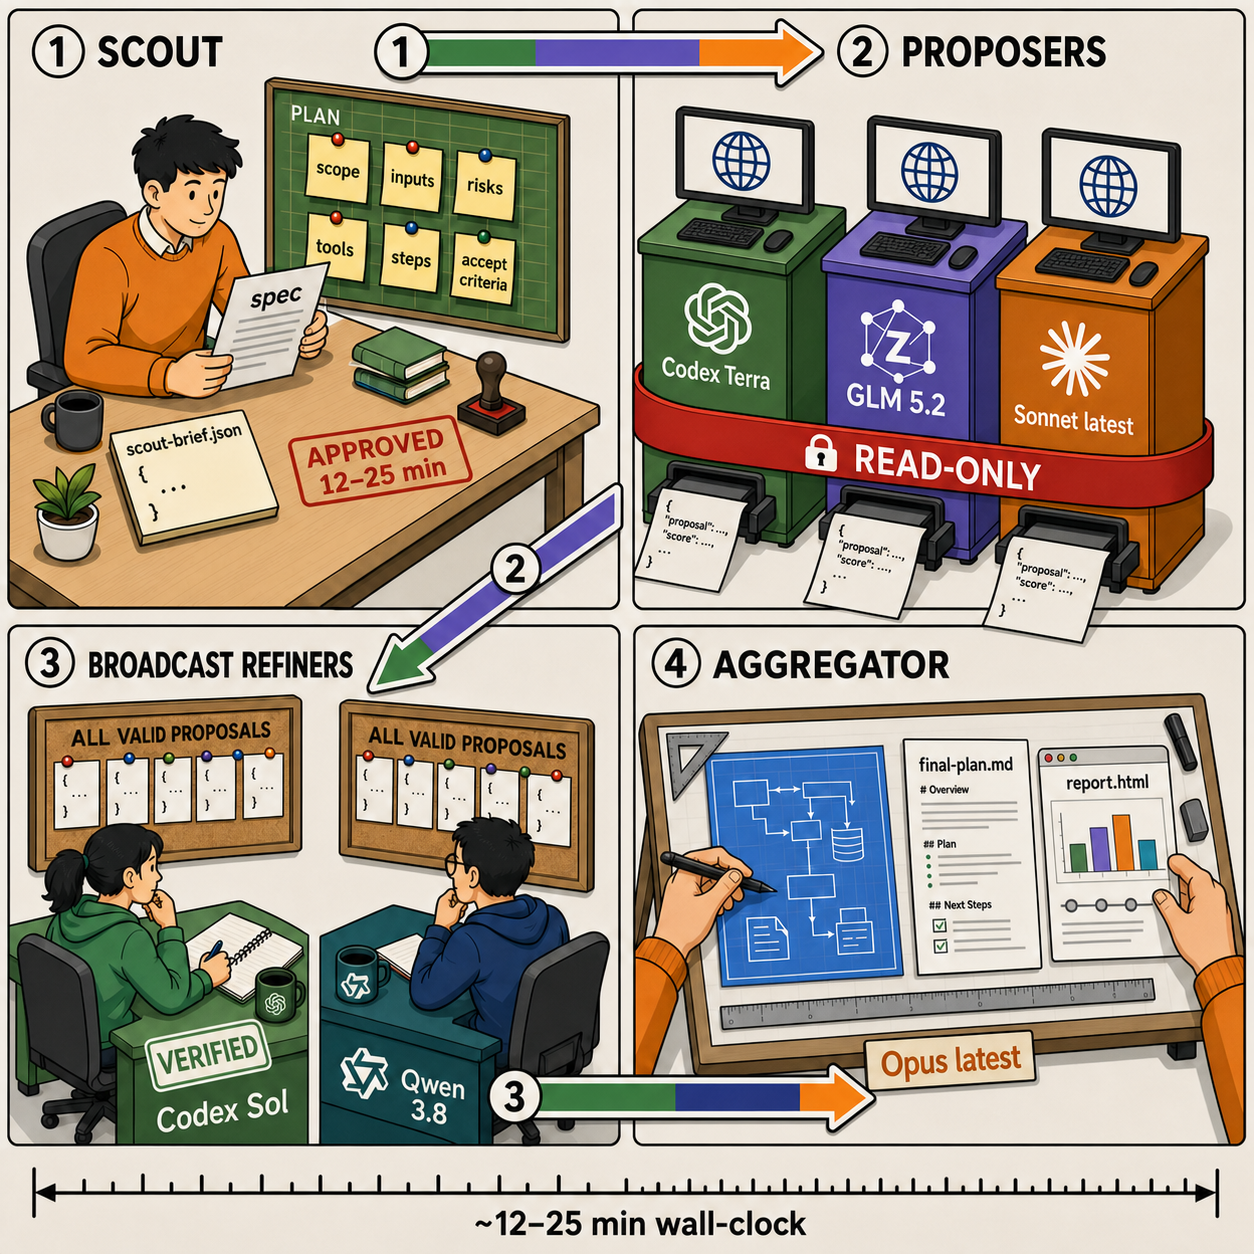
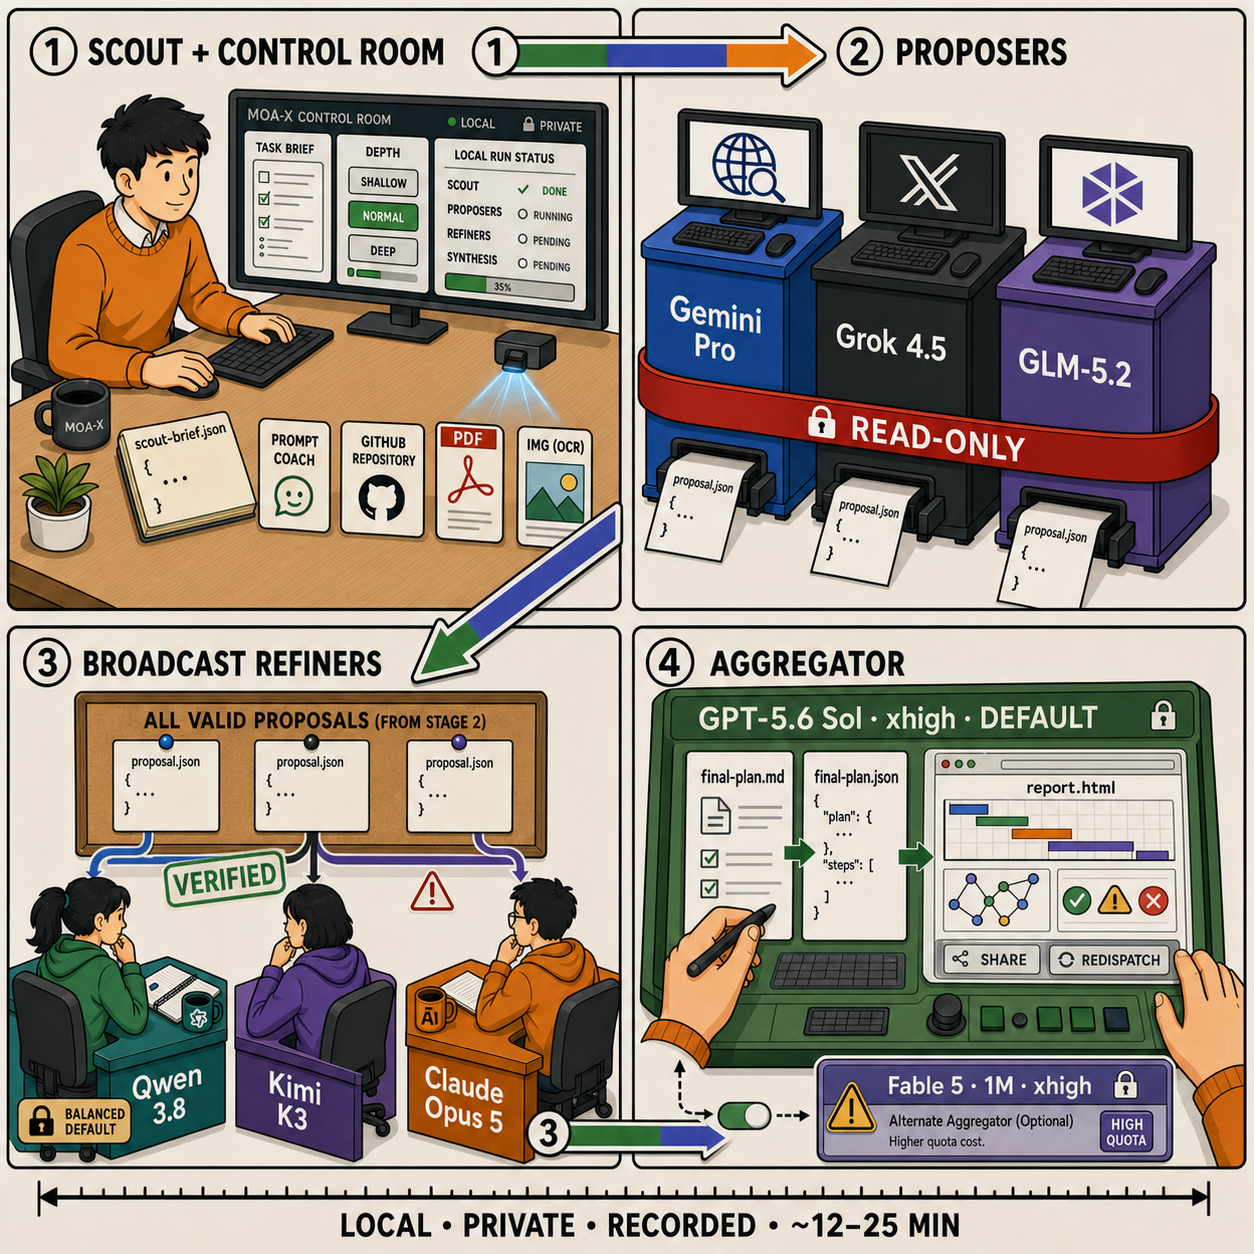
Publish approved MoA-X workflow graphic (#27)
Approved review image, checked for metadata and public-repository PII before publication.

diff --git a/README.md b/README.md
@@ -9,13 +9,9 @@
   <img src="https://img.shields.io/badge/providers-codex%20%7C%20claude%20%7C%20opencode%20%7C%20cursor%20%7C%20agy-informational" alt="supported CLIs">
 </p>
 
-```mermaid
-flowchart LR
-  S["Scout brief"] --> P["Proposers: Gemini Pro + Grok 4.5 + GLM-5.2"]
-  P --> R["Broadcast refiners: Qwen 3.8 + Kimi K3 + Claude Opus 5"]
-  R --> A["Aggregator: GPT-5.6 Sol xhigh default; Opus or gated Fable alternatives"]
-  A --> O["Final plan + decision lineage + report"]
-```
+<p align="center">
+  <img src="docs/moa-x-workflow.png" alt="MoA-X four-stage workflow: Scout and control room, Gemini Pro/Grok/GLM proposers, Qwen/Kimi/Opus broadcast refiners, and GPT-5.6 Sol aggregation with a warning-gated Fable alternative" width="100%">
+</p>
 
 A small, CLI-native take on the 2024
 [Mixture-of-Agents paper](https://arxiv.org/abs/2406.04692), pointed at

diff --git a/docs/diagram-prompts.md b/docs/diagram-prompts.md
@@ -3,9 +3,8 @@
 The brand images are current and live:
 
 - `docs/moa-x-header.png` — the README hero banner (generated from Prompt 2).
-- `docs/moa-x-workflow.png` — the prior four-stage workflow illustration
-  (generated from Prompt 1). The docs now use Mermaid until this asset is
-  regenerated for the current roster.
+- `docs/moa-x-workflow.png` — the current four-stage workflow illustration
+  (generated from Prompt 1), embedded in the README.
 
 The banner reflects the cross-lab ensemble theme. The next workflow image should
 show the current default proposers (Gemini Pro, Grok 4.5, and GLM-5.2),
